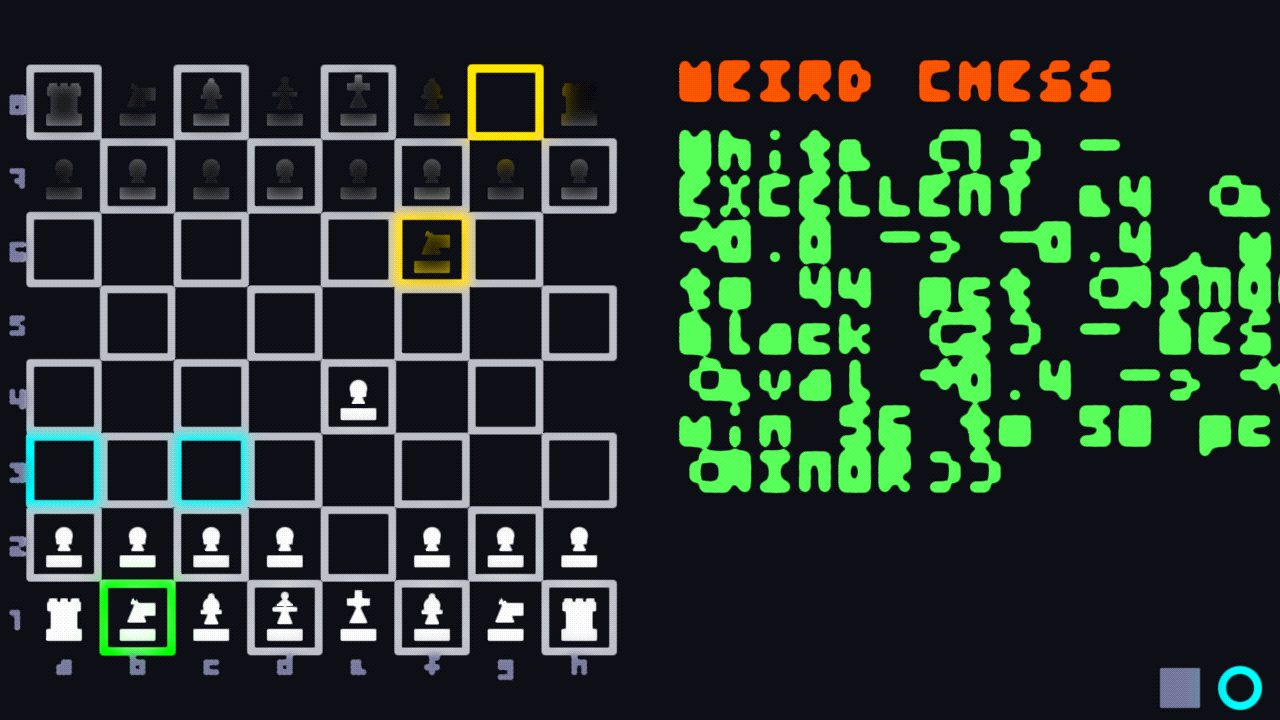
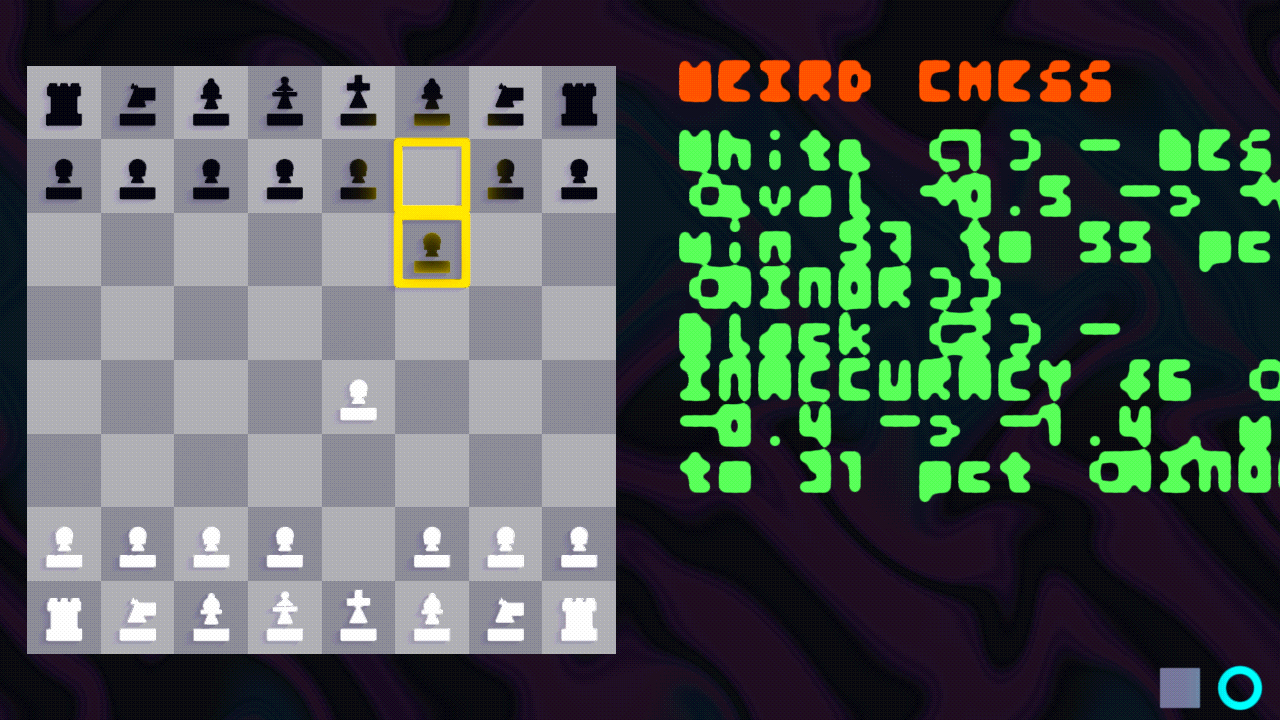
Improve chessboard rendering with custom background shader and Balatro-style backdrop

diff --git a/include/shapes/BoardShapes.h b/include/shapes/BoardShapes.h
@@ -14,13 +14,109 @@ namespace wchess
 {
 	namespace BoardShapes
 	{
+		// Custom SDF for Approach 2: Stippled / Halftone dot matrix inside square
+		struct StippledSquareSDF : public IMathExpression
+		{
+			[[nodiscard]]
+			float getValue(const float* parameters) const override
+			{
+				float px = parameters[0];
+				float py = parameters[1];
+				float hw = parameters[2];
+				float spacing = parameters[3];
+				float radius = parameters[4];
+				float border = parameters[5];
+
+				float worldX = parameters[Primitives::WORLD_X];
+				float worldY = parameters[Primitives::WORLD_Y];
+
+				float dx = std::abs(worldX - px) - hw;
+				float dy = std::abs(worldY - py) - hw;
+				float d_box = std::max(dx, dy);
+
+				float lx = (worldX - px) + 0.5f * spacing;
+				float ly = (worldY - py) + 0.5f * spacing;
+				float mx = std::fmod(std::fmod(lx, spacing) + spacing, spacing) - 0.5f * spacing;
+				float my = std::fmod(std::fmod(ly, spacing) + spacing, spacing) - 0.5f * spacing;
+				float d_dots = std::sqrt(mx * mx + my * my) - radius;
+
+				float d_stipple = std::max(d_box, d_dots);
+				if (border > 0.0f)
+				{
+					float d_border = std::abs(d_box) - border;
+					return std::min(d_border, d_stipple);
+				}
+				return d_stipple;
+			}
+
+			[[nodiscard]]
+			std::string print() const override
+			{
+				// var0: px, var1: py, var2: hw, var3: spacing, var4: radius, var5: border
+				// var9: worldX (p.x), var10: worldY (p.y)
+				return "min(abs(max(abs(var9 - var0) - var2, abs(var10 - var1) - var2)) - var5, "
+					   "max(max(abs(var9 - var0) - var2, abs(var10 - var1) - var2), "
+					   "length(mod(vec2(var9 - var0, var10 - var1) + (0.5 * var3), var3) - (0.5 * var3)) - var4))";
+			}
+		};
+
+		// Custom SDF for Approach 3: Concentric Inset Rings / Grooves inside square
+		struct ConcentricSquareSDF : public IMathExpression
+		{
+			[[nodiscard]]
+			float getValue(const float* parameters) const override
+			{
+				float px = parameters[0];
+				float py = parameters[1];
+				float hw = parameters[2];
+				float spacing = parameters[3];
+				float thickness = parameters[4];
+
+				float worldX = parameters[Primitives::WORLD_X];
+				float worldY = parameters[Primitives::WORLD_Y];
+
+				float dx = std::abs(worldX - px) - hw;
+				float dy = std::abs(worldY - py) - hw;
+				float d_box = std::max(dx, dy);
+
+				float dist_in = -d_box;
+				if (dist_in > 0.0f)
+				{
+					float shifted = dist_in + 0.5f * spacing;
+					float m = std::fmod(std::fmod(shifted, spacing) + spacing, spacing) - 0.5f * spacing;
+					float ring = std::abs(m) - thickness;
+					return std::max(d_box, ring);
+				}
+				return d_box;
+			}
+
+			[[nodiscard]]
+			std::string print() const override
+			{
+				// var0: px, var1: py, var2: hw, var3: spacing, var4: thickness
+				// Outer box: max(abs(var9 - var0) - var2, abs(var10 - var1) - var2)
+				// Nested rings: abs(mod(-(max(abs(var9 - var0) - var2, abs(var10 - var1) - var2)) + (0.5 * var3), var3)
+				// - (0.5 * var3)) - var4
+				return "max(max(abs(var9 - var0) - var2, abs(var10 - var1) - var2), "
+					   "abs(mod(-(max(abs(var9 - var0) - var2, abs(var10 - var1) - var2)) + (0.5 * var3), var3) - "
+					   "(0.5 * var3)) - var4)";
+			}
+		};
+
+		inline ShapeId s_stippleShapeId = 0;
+		inline ShapeId s_concentricShapeId = 0;
+
+		inline void registerAll(ShapeService& shapes)
+		{
+			s_stippleShapeId = shapes.registerSDF(std::make_shared<StippledSquareSDF>());
+			s_concentricShapeId = shapes.registerSDF(std::make_shared<ConcentricSquareSDF>());
+		}
+
 		// Light and dark square material ids (palette slots, see globals.h).
 		inline constexpr uint16_t LIGHT = ChessPalette::LightSquare;
 		inline constexpr uint16_t DARK = ChessPalette::DarkSquare;
 
-		// Creates the 64 square entities + 64 highlight overlays. Squares are
-		// border-only (BOX_LINE) so they never cover the pieces with a filled
-		// interior. Returns the square entities in index order (a1=0 ... h8=63).
+		// Creates the 64 square entities + 64 highlight overlays.
 		inline std::vector<Entity> createBoard(Registry& registry, ShapeService& shapes,
 											   std::vector<Entity>& outHighlights)
 		{
@@ -33,30 +129,8 @@ namespace wchess
 			{
 				int file = index & 7;
 				int rank = index >> 3;
-				vec2 c = PieceShapes::squareCenterWorld(index);
-				bool light = ((file + rank) & 1) == 1;
 
-				// Square border (hollow box) rendered only for light squares.
-				// Kept slightly smaller than cell size (0.46 * CELL) so neighbouring
-				// diagonal boxes never touch or overlap.
-				float hw = ChessConfig::CELL * 0.46f;
-				float thickness = ChessConfig::CELL * 0.045f;
-				Entity square = INVALID_ENTITY;
-				if (light)
-				{
-					square = shapes.addShape({.shapeId = DefaultShapes::BOX_LINE,
-											  .variables = {c.x, c.y, hw, hw, thickness},
-											  .material = LIGHT,
-											  .combination = CombinationType::Addition,
-											  .hasCollision = false,
-											  .group = 0});
-					registry.setComponentDirty(registry.getComponent<CustomShape>(square));
-				}
-				else
-				{
-					square = registry.createEntity();
-				}
-
+				Entity square = registry.createEntity();
 				SquareComp& comp = registry.addComponent<SquareComp>(square);
 				comp.file = file;
 				comp.rank = rank;
@@ -79,38 +153,6 @@ namespace wchess
 				outHighlights.push_back(highlight);
 			}
 			return squares;
-		}
-
-		// Rank labels (1-8) on the left of the board, file labels (a-h) below.
-		// Positions are world-space and provided by the caller (layoutSystem
-		// recomputes them on resize). Returns rank labels then file labels.
-		inline std::vector<Entity> createLabels(Registry& registry)
-		{
-			std::vector<Entity> out;
-			out.reserve(16);
-
-			auto makeLabel = [&](float x, float y, const std::string& text)
-			{
-				Entity e = registry.createEntity();
-				auto& t = registry.addComponent<Transform>(e);
-				t.position = vec3(x, y, 0.0f);
-
-				auto& label = registry.addComponent<TextRenderer>(e);
-				label.text = text;
-				label.material = ChessPalette::PanelTextDim;
-				label.horizontalAlignment = TextRenderer::HorizontalAlignment::Center;
-				label.verticalAlignment = TextRenderer::VerticalAlignment::Center;
-				registry.setComponentDirty(label);
-				return e;
-			};
-
-			for (int rank = 0; rank < 8; ++rank)
-				out.push_back(makeLabel(0.0f, 0.0f, std::to_string(rank + 1)));
-
-			for (int file = 0; file < 8; ++file)
-				out.push_back(makeLabel(0.0f, 0.0f, std::string(1, static_cast<char>('a' + file))));
-
-			return out;
 		}
 
 		// Sets a highlight overlay visible at a square (or hides it when

diff --git a/include/systems/onStartBoardSystem.h b/include/systems/onStartBoardSystem.h
@@ -77,8 +77,75 @@ namespace wchess
 
 		// ---- background + text sizes ----
 		auto& bg = services.render().getBackground();
-		bg.type = BackgroundType::Solid;
-		bg.primaryColor = vec4(0.055f, 0.06f, 0.08f, 1.0f);
+		bg.type = BackgroundType::Custom;
+		DisplaySettings defaultDisplay;
+		bg.primaryColor = defaultDisplay.colorPalette[DisplaySettings::DefaultColors::White];  // Light squares
+		bg.secondaryColor = defaultDisplay.colorPalette[DisplaySettings::DefaultColors::Gray]; // Dark squares
+		bg.customShaderCode = R"(
+			vec3 getBackground(vec2 uv, vec2 worldPos)
+			{
+				// Derive true world position matching the camera framing and SDF foreground shapes.
+				// u_camMatrix[3].xy = -camPos.xy, u_camMatrix[3].z = -camPos.z
+				vec2 trueWorldPos = -u_camMatrix[3].xy + (uv * (-u_camMatrix[3].z));
+
+				const float CELL = 15.0; // ChessConfig::CELL
+				const float BOARD_SIZE = 8.0 * CELL; // 120.0
+
+				// Balatro-style swirling procedural background:
+				// Slow time-based domain warping with contour isolines
+				float t = u_time * 0.15;
+				vec2 p = uv * 2.2;
+
+				for (int i = 1; i <= 3; i++)
+				{
+					float fi = float(i);
+					vec2 np = p;
+					np.x += (0.35 / fi) * sin(fi * 2.4 * p.y + t * 0.7 + fi * 1.3);
+					np.y += (0.35 / fi) * cos(fi * 2.4 * p.x + t * 0.5 + fi * 0.9);
+					p = np;
+				}
+
+				float wave1 = sin(p.x * 2.5 + p.y * 2.0 + t * 0.3);
+				float wave2 = cos(length(p) * 2.2 - t * 0.5);
+				float pattern = sin(wave1 * 3.14159 + wave2 * 2.0);
+				float mask = 0.5 + 0.5 * pattern;
+
+				// Subtle stepped contour lines (posterized bands)
+				float stepped = floor(mask * 7.0) / 7.0;
+				float subtleBands = mix(mask, stepped, 0.15);
+				float bandEdge = 0.5 + 0.5 * sin(mask * 22.0 + t * 0.4);
+
+				// Dark moody palette with rich subtle colors (midnight indigo, deep wine/plum, ocean teal)
+				vec3 darkBase   = vec3(0.030, 0.032, 0.045);
+				vec3 deepPlum   = vec3(0.085, 0.048, 0.110);
+				vec3 oceanTeal  = vec3(0.038, 0.078, 0.105);
+				vec3 glowAccent = vec3(0.160, 0.080, 0.125);
+
+				vec3 tableColor = mix(darkBase, deepPlum, smoothstep(0.1, 0.6, subtleBands));
+				tableColor = mix(tableColor, oceanTeal, smoothstep(0.35, 0.85, sin(p.y * 1.6 + t * 0.25) * 0.5 + 0.5));
+				tableColor = mix(tableColor, glowAccent, smoothstep(0.72, 1.0, subtleBands) * 0.40);
+				tableColor += bandEdge * 0.012;
+
+				float bx = trueWorldPos.x;
+				float by = trueWorldPos.y;
+
+				// Outside the 8x8 board: Balatro table background
+				if (bx < 0.0 || bx > BOARD_SIZE || by < 0.0 || by > BOARD_SIZE)
+				{
+					return tableColor;
+				}
+
+				// Inside 8x8 Board Tiles:
+				vec2 boardCoord = trueWorldPos / CELL;
+				ivec2 cell = ivec2(floor(boardCoord));
+				bool isLight = ((cell.x + cell.y) & 1) == 1;
+
+				// Completely flat solid tiles:
+				vec3 lightColor = u_bgPrimaryColor.rgb;
+				vec3 darkColor  = u_bgSecondaryColor.rgb;
+				return (isLight ? lightColor : darkColor) * u_bgIntensity;
+			}
+			)";
 
 		// World text: single-char labels next to the board.
 		// services.render().getContext2D().dotRadious = 0.01f;
@@ -88,18 +155,14 @@ namespace wchess
 		services.render().getContextUI().dotRadious = 5.0f;
 		services.render().getContextUI().charSpacing = 10.0f;
 
-		// ---- piece SDFs ----
+		// ---- piece & board SDFs ----
 		PieceShapes::registerAll(services.shapes());
+		BoardShapes::registerAll(services.shapes());
 
 		// ---- board ----
 		state.squareEntities = BoardShapes::createBoard(registry, services.shapes(), state.highlightEntities);
 		state.pieceEntities.assign(64, INVALID_ENTITY);
 		MoveSystem::syncPieces(state, registry, services.shapes());
-
-		// ---- labels ----
-		auto labels = BoardShapes::createLabels(registry);
-		state.rankLabels.assign(labels.begin(), labels.begin() + 8);
-		state.fileLabels.assign(labels.begin() + 8, labels.end());
 
 		// ---- right panel (pure story UI) ----
 		// The main header text holds the title of the story

diff --git a/include/systems/layoutSystem.h b/include/systems/layoutSystem.h
@@ -62,37 +62,6 @@ namespace wchess
 			camTransform.position = cam;
 			registry.setComponentDirty(camTransform);
 
-			// --- world-space rank/file labels ---
-			// 8 rank labels then 8 file labels (order matches creation).
-			const float boardLeftPx = worldToScreenX(cam, halfH, 0.0f);
-			const float boardBottomPx = worldToScreenY(cam, halfH, 0.0f);
-			const float rankLabelPx = std::max(6.0f, boardLeftPx - ChessConfig::RANK_LABEL_GAP_PX);
-			const float fileLabelPx = std::max(6.0f, boardBottomPx - ChessConfig::FILE_LABEL_GAP_PX);
-
-			for (int rank = 0; rank < 8; ++rank)
-			{
-				float wx = screenToWorldX(cam, halfH, rankLabelPx);
-				float wy = static_cast<float>(rank) * ChessConfig::CELL + ChessConfig::CELL * 0.5f;
-				Entity e = state.rankLabels[rank];
-				if (e == INVALID_ENTITY)
-					continue;
-				auto& t = registry.getComponent<Transform>(e);
-				t.position = vec3(wx, wy, 0.0f);
-				registry.setComponentDirty(t);
-			}
-
-			for (int file = 0; file < 8; ++file)
-			{
-				float wx = static_cast<float>(file) * ChessConfig::CELL + ChessConfig::CELL * 0.5f;
-				float wy = screenToWorldY(cam, halfH, fileLabelPx);
-				Entity e = state.fileLabels[file];
-				if (e == INVALID_ENTITY)
-					continue;
-				auto& t = registry.getComponent<Transform>(e);
-				t.position = vec3(wx, wy, 0.0f);
-				registry.setComponentDirty(t);
-			}
-
 			// --- right panel (screen space) ---
 			const float panelLeft = halfW + ChessConfig::PANEL_LEFT_MARGIN_PX;
 			const float panelTop = height - ChessConfig::PANEL_TOP_MARGIN_PX;
